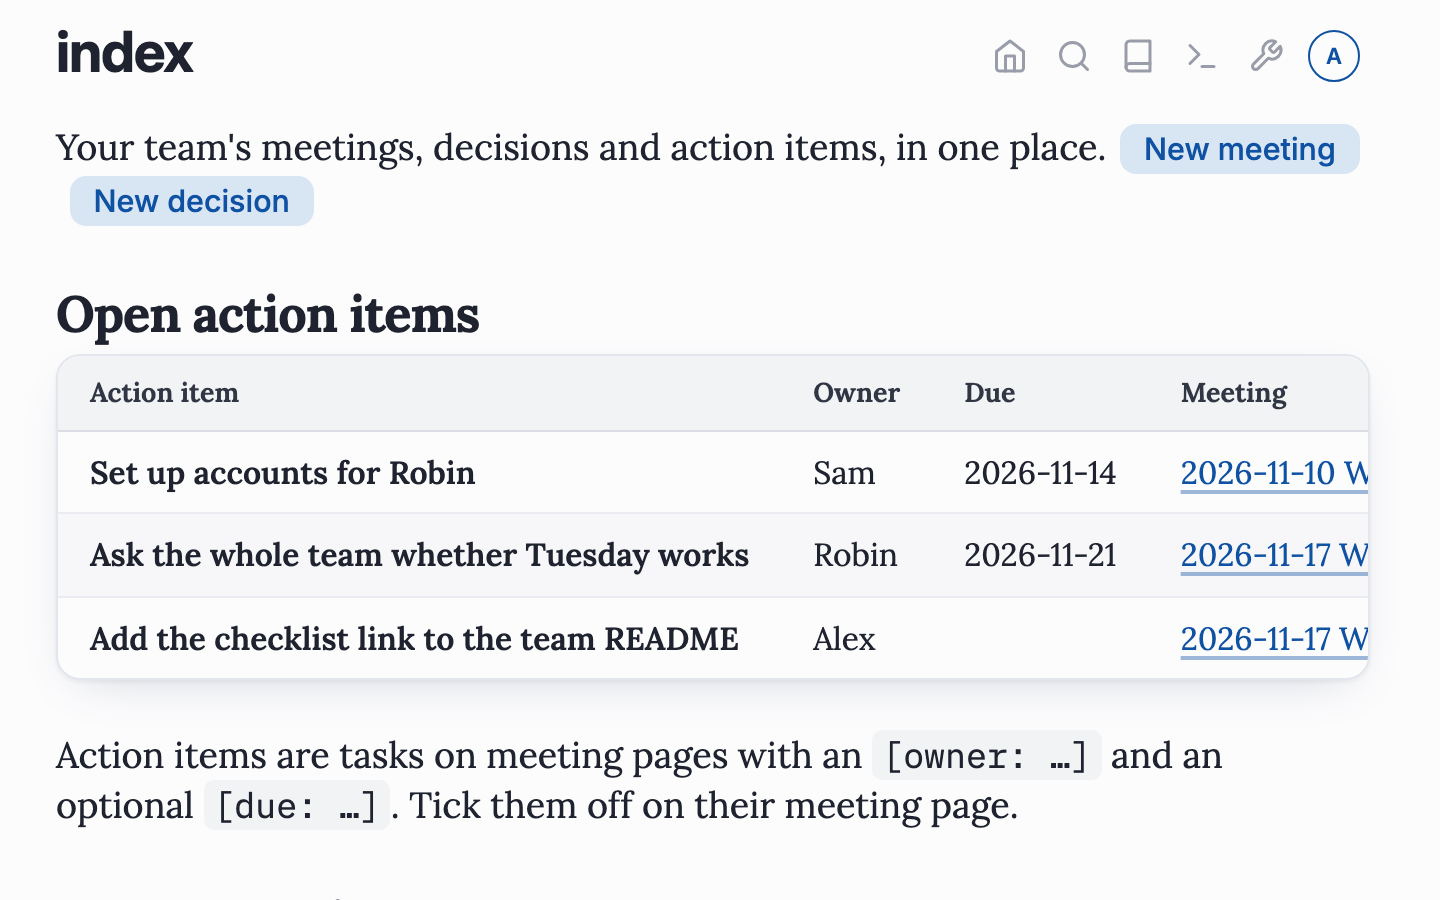
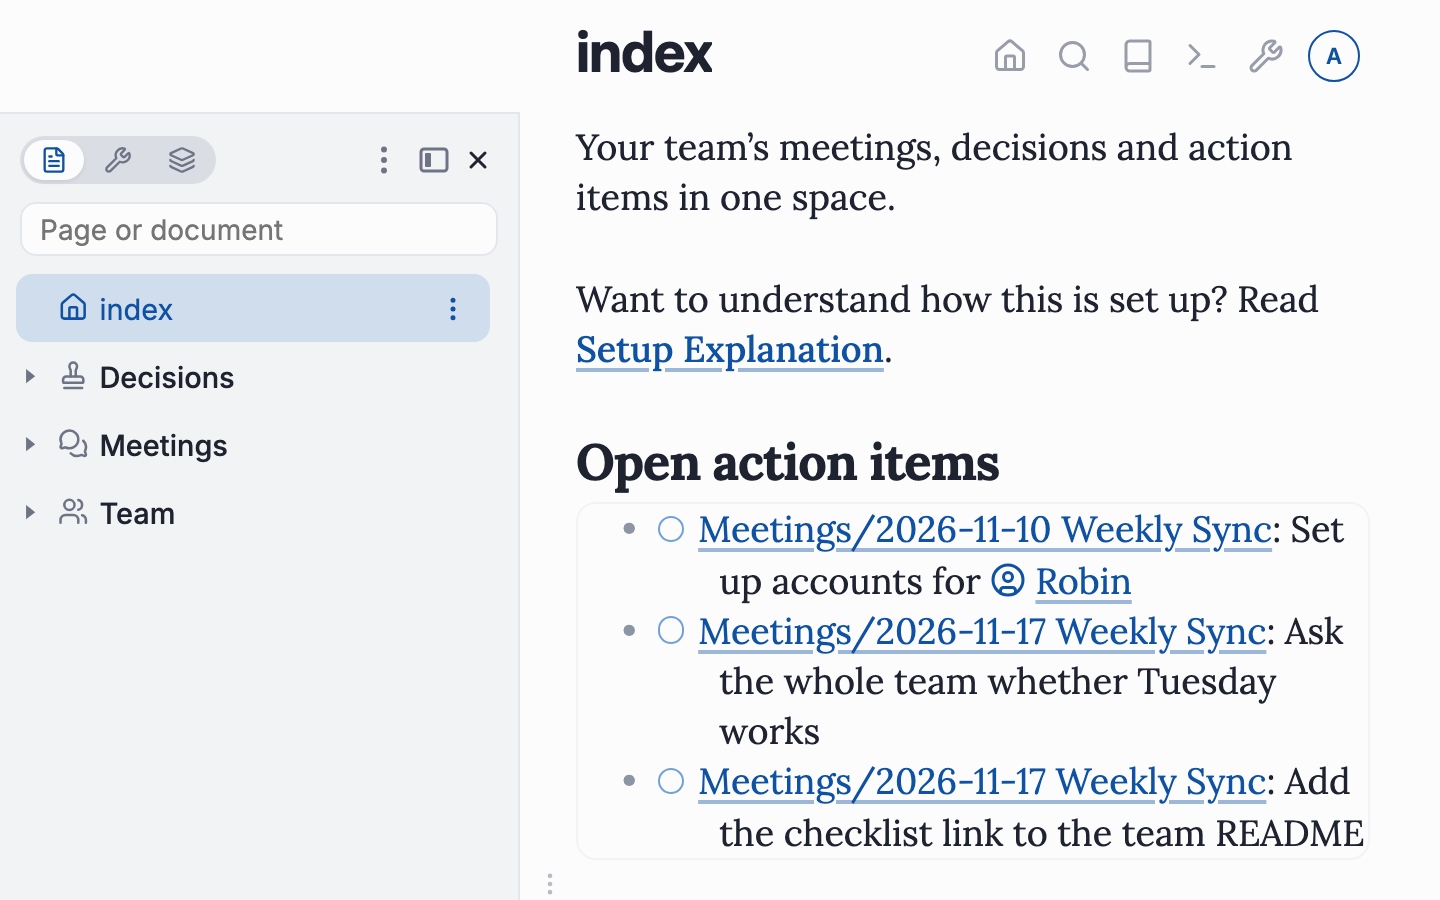
feat(starter-kits): explain the team space setup

diff --git a/starter-kits/team-space/Library/Setup Explanation.md b/starter-kits/team-space/Library/Setup Explanation.md
@@ -1,0 +1,22 @@
+Here’s how things are set up:
+
+# Space Tree
+[[^Library/Space Tree Outline]] defines the tree organization. You can change it on that page, or simply drag and drop items and use the context menu to make changes.
+
+# Page templates
+To quickly create various types of pages, there are page templates defined (you can also find these in the “Library” tab of the Space Tree, under `Library/Page Tempaltes`):
+${query[[
+  from p = index.libraryPages("meta/template/page")
+  where p.perm == "rw"
+  select {
+    name = markdown.link(p.name)
+  }
+]]}
+
+# Tags and schemas
+Three custom tags have been defined:
+* #decision to capture decisions (as pages)
+* #person to represent people (as pages)
+* #meeting to represent meetings (as pages)
+
+Each have a schema defined, which you can find via ${widgets.commandButton "Workbench: Data"}, then selecting the tag on the left, and selecting the “Schema” segment on the right. [[^Library/Config]] describes the schema in code.

diff --git a/starter-kits/team-space/index.md b/starter-kits/team-space/index.md
@@ -1,19 +1,15 @@
-Your team's meetings, decisions and action items, in one place.
+Your team’s meetings, decisions and action items in one space.
+
+Want to understand how this is set up? Read [[^Library/Setup Explanation]].
 
 # Open action items
 ${query[[
   from t = index.tasks()
-  where not t.done and table.includes(t.itags, "meeting")
+  where not t.done
+    and table.includes(t.itags, "meeting")
   order by t.due, t.page
-  select {
-    ["Action item"] = t.name,
-    Owner = t.owner,
-    Due = t.due,
-    Meeting = markdown.link(t)
-  }
+  select templates.taskItem(t)
 ]]}
-
-Action items are tasks on meeting pages with an `[owner: …]` and an optional `[due: …]`. Tick them off on their meeting page.
 
 # Latest [[Meetings]]
 ${query[[

diff --git a/starter-kits/team-space/Library/Space Tree Outline.md b/starter-kits/team-space/Library/Space Tree Outline.md
@@ -1,0 +1,9 @@
+The order of the space tree. Drag rows in the tree to change it, or edit this list. Entries marked `[order: auto]` are only here to hold what's under them, and keep their alphabetical place.
+
+* index [icon: house]
+* Decisions [icon: stamp]
+* Library
+* Meetings [icon: messages-circle]
+* Team [icon: users]
+* kit.json
+* preview.png

diff --git a/starter-kits/team-space/Library/Config.md b/starter-kits/team-space/Library/Config.md
@@ -53,5 +53,5 @@ tag.define {
 }
 config.set({"tags", "person", "icon"}, "circle-user")
 config.set({"tags", "meeting", "icon"}, "users")
-config.set({"tags", "decision", "icon"}, "rocket")
+config.set({"tags", "decision", "icon"}, "stamp")
 ```
